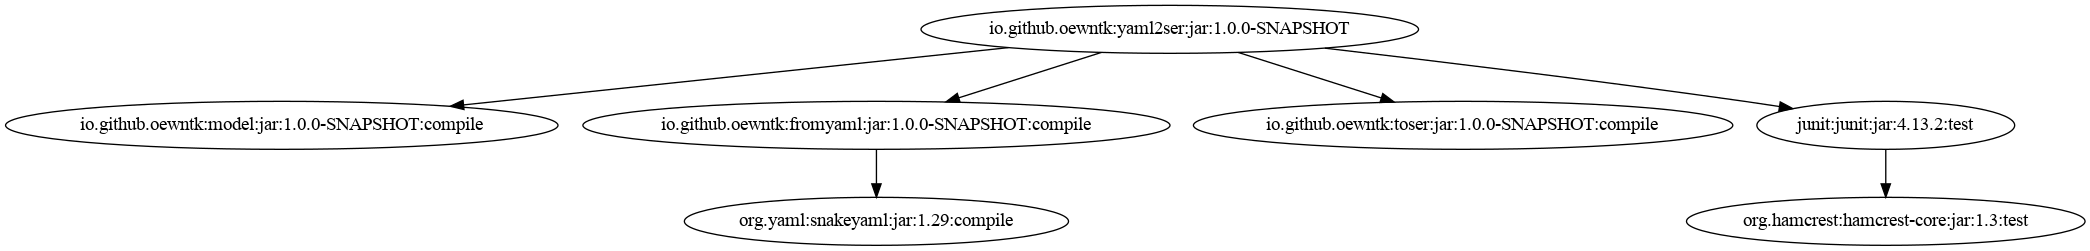
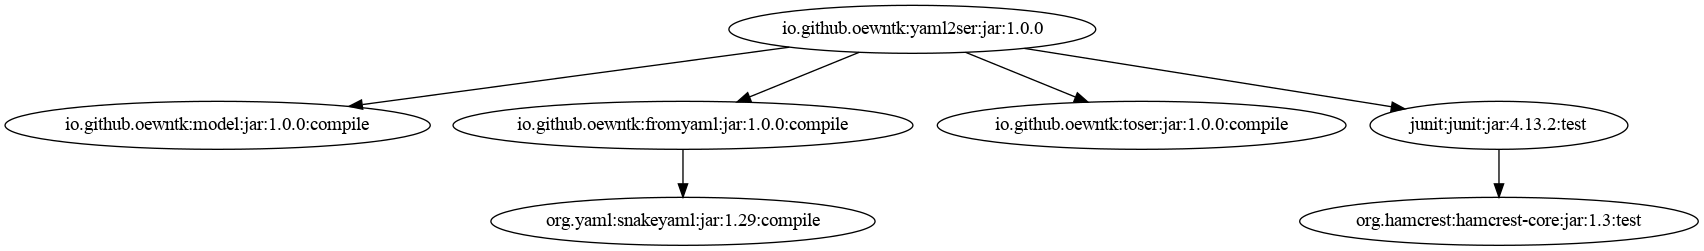
maven release dropping SNAPSHOT

diff --git a/README.md b/README.md
@@ -45,7 +45,7 @@ grinds the SQL database
 
 		<groupId>io.github.oewntk</groupId>
 		<artifactId>yaml2ser</artifactId>
-		<version>1.0.0-SNAPSHOT</version>
+		<version>1.0.0</version>
 
 ## Dependencies
 
